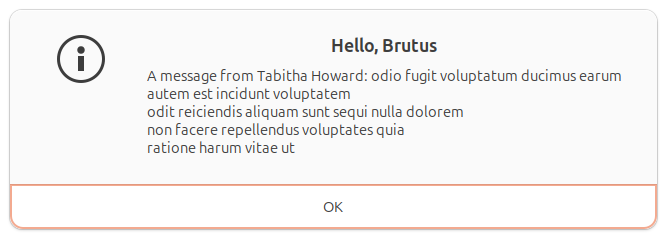
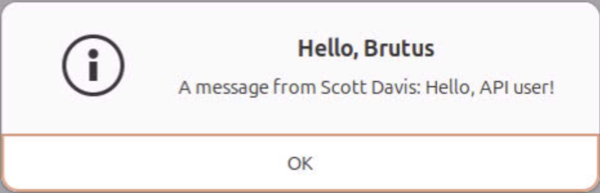
Fix JSON API usage, and link to main EN translation. (#65)

Changed region(s): [[0.0, 0.0, 1.0, 1.0], [0.06, 0.1244, 0.93, 0.6528]]

diff --git a/docs/en/tutorial/tutorial-8.md b/docs/en/tutorial/tutorial-8.md
@@ -8,7 +8,7 @@ However, in a real world application, we'll need to perform complex tasks or cal
 
 A common time-consuming task an app will need to perform is to make a request on a web API to retrieve data, and display that data to the user. Web APIs sometimes take a second or two to respond, so if we're calling an API like that, we need to ensure our application doesn't become unresponsive while we wait for the web API to return an answer.
 
-This is a toy app, so we don't have a *real* API to work with, so we'll use the [{JSON} Placeholder API](https://jsonplaceholder.typicode.com) as a source of data. The {JSON} Placeholder API has a number of "fake" API endpoints you can use as test data. One of those APIs is the `/posts/` endpoint, which returns fake blog posts. If you open `https://jsonplaceholder.typicode.com/posts/42` in your browser, you'll get a JSON payload describing a single post - some [Lorum ipsum](https://en.wikipedia.org/wiki/Lorem_ipsum) content for a blog post with ID 42.
+This is a toy app, so we don't have a *real* API to work with, so we'll use a sample API endpoint as a source of data. If you open [`https://tutorial.beeware.org/tutorial/message.json`](https://tutorial.beeware.org/tutorial/message.json) in your browser, you'll get a JSON payload with a message.
 
 The Python standard library contains all the tools you'd need to access an API. However, the built-in APIs are very low level. They are good implementations of the HTTP protocol - but they require the user to manage lots of low-level details, like URL redirection, sessions, authentication, and payload encoding. As a "normal browser user" you're probably used to taking these details for granted, as a browser manages them for you.
 
@@ -35,7 +35,7 @@ Then modify the `say_hello()` callback so it looks like this:
 async def say_hello(self, widget):
     fake = faker.Faker()
     with httpx.Client() as client:
-        response = client.get("https://jsonplaceholder.typicode.com/posts/42")
+        response = client.get("https://tutorial.beeware.org/tutorial/message.json")
 
     payload = response.json()
 

diff --git a/docs/en/index.md b/docs/en/index.md
@@ -18,7 +18,7 @@ If you're not comfortable with English, translations of this tutorial are availa
 
 /// admonition | This is a machine translation!
 
-This version of the tutorial has been generated by machine translation. We know this isn't ideal, but we felt that a bad translation was better than no translation at all.
+This document is a machine-generated translation of the [English](https://tutorial.beeware.org/) tutorial. We know that a machine translation isn't ideal, but we felt that a bad translation was better than no translation at all.
 
 If you'd like the help improve the translation, get in touch! We have a `#translations` channel in [Discord](https://beeware.org/bee/chat/). Introduce yourself there and we will add you to the translation team.
 
@@ -30,7 +30,7 @@ If you'd like the help improve the translation, get in touch! We have a `#transl
 
 /// admonition | This is a translation!
 
-This document is a translation of the English version. The translation has been reviewed by humans, but newer sections may be generated by machine translation, or not translated at all.
+This document is a translation of the [English](https://tutorial.beeware.org) tutorial. The translation has been reviewed by humans, but newer sections may have been generated by machine translation.
 
 If you'd like the help improve the translation, get in touch! We have a `#translations` channel in [Discord](https://beeware.org/bee/chat/). Introduce yourself there and we will add you to the translation team.
 
